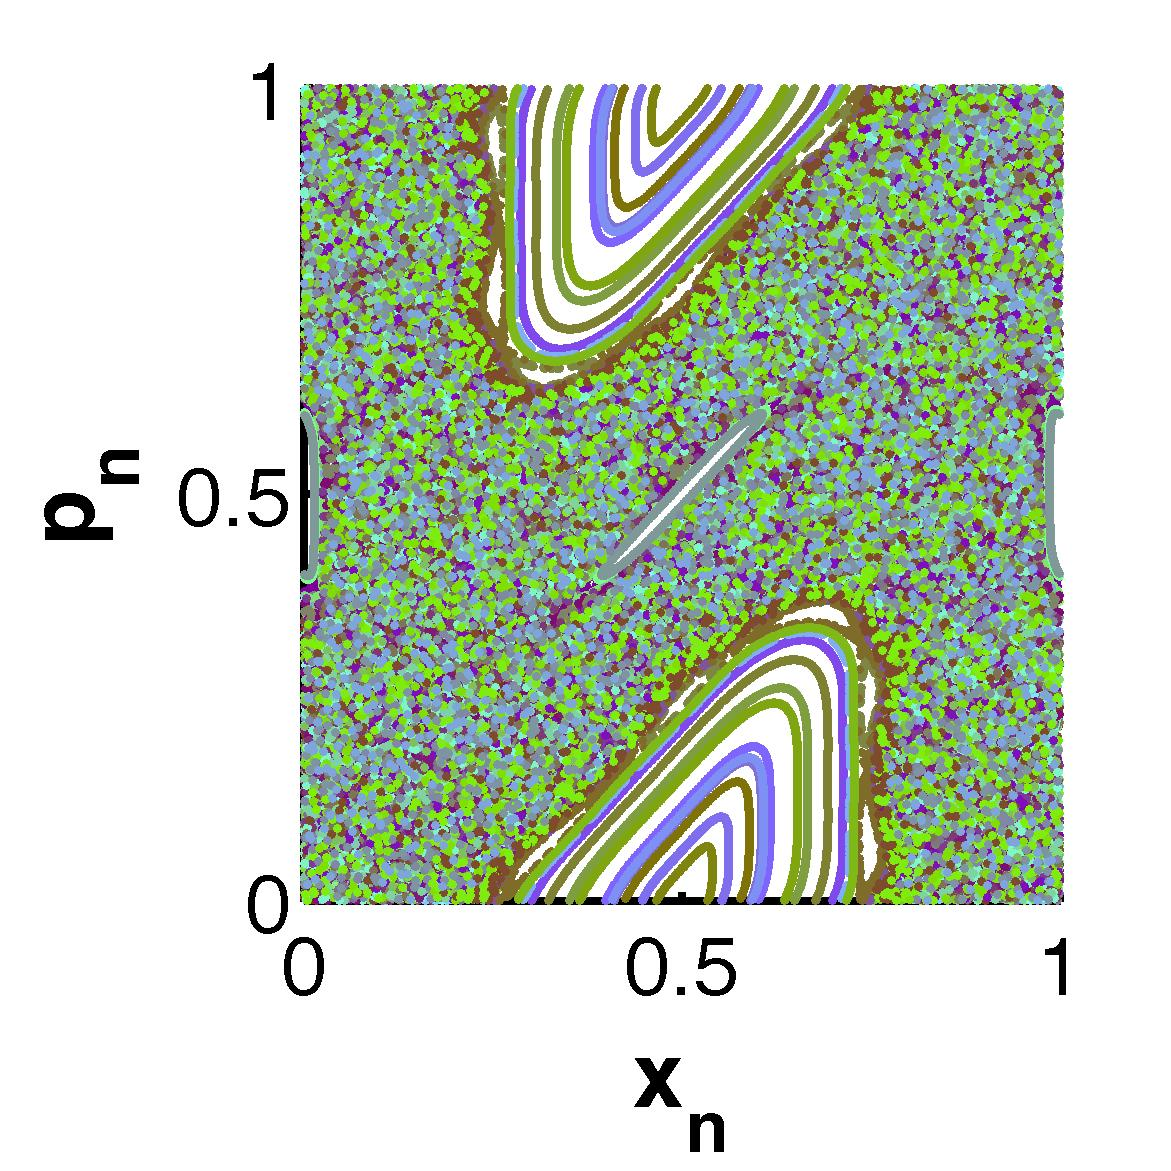
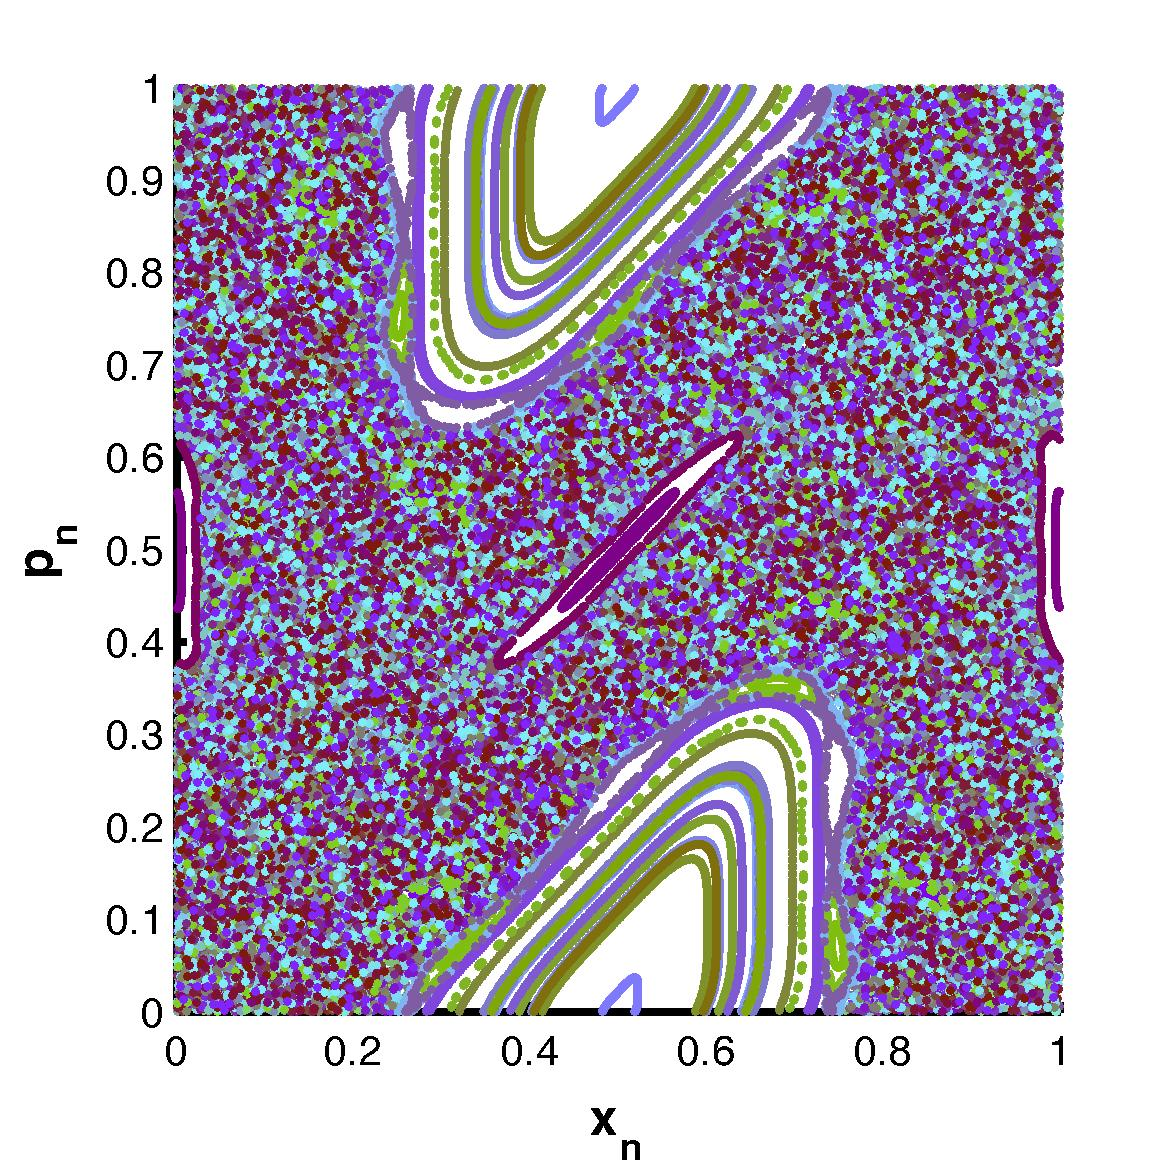
Better images with labels

diff --git a/Practica/Assignment 1/code/assignment_b_fancy_diff_k.m b/Practica/Assignment 1/code/assignment_b_fancy_diff_k.m
@@ -24,7 +24,7 @@ for k = ks
     xlabel('{x_n}');
     ylabel('{p_n}');
     
-    high_quality_plot('Save', sprintf('../report/img/assignment_b_fancy_k_%d', round(k*10)), 'Ext', 'jpeg', 'FontSize', 22, 'PaperWidth', 4, 'PaperHeight', 4, 'Margin', 0.05);
+    high_quality_plot('Save', sprintf('../report/img/assignment_b_fancy_k_%d', round(k*10)), 'Ext', 'jpeg', 'FontSize', 12, 'PaperWidth', 4, 'PaperHeight', 4, 'Margin', 0.05);
     
     close all;
 end
